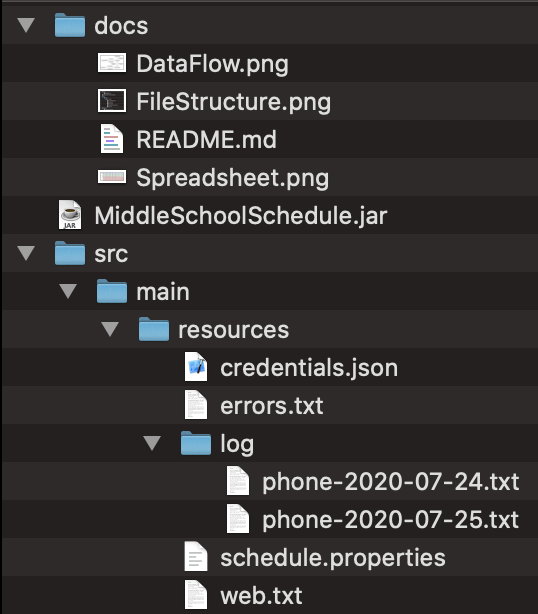
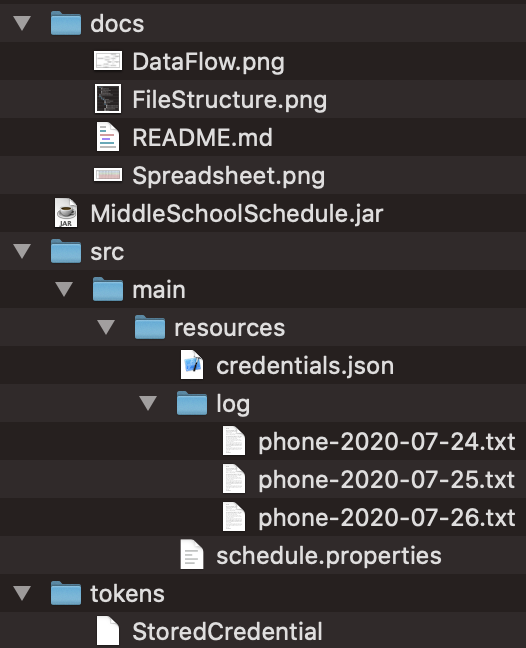
Add files via upload
Updated File Structure and README to remove GET requests and Web.txt. Also added list of commands.

Changed region(s): [[0.0, 0.0, 1.0, 1.0], [0.2738, 0.5879, 0.3042, 0.6498], [0.2738, 0.7117, 0.3042, 0.7427]]

diff --git a/README.md b/README.md
@@ -7,12 +7,26 @@ This program accepts texted commands and responds with information periodically 
 
 This project is intended for use by Suffield Middle School, but can be expanded on for other cases. This project requires you to supply your Twilio account with money for inbound and outbound messaging fees. The owner/admin of the spreadsheet has total control over the spreadsheet. Everyone else is restricted to the editing boxes highlighted in various colors. The admin can expand editing boxes, but must follow the instructions carefully.
     
-* A typical invocation of this program will be `java -jar /path/to/MiddleSchoolSchedule.jar -DproPath=app/example/path -Dlimit=50`. I recommend changing directory to the encompassing folder if possible, for minimal confusion regarding file paths.
+* A typical invocation of this program looks like `java -jar /path/to/MiddleSchoolSchedule.jar -DproPath=app/example/path -Dlimit=50`. Replace the example words with the real path as needed. The paths of the files and folders are automatically typed in if you drag the icon into the terminal. I also recommend changing directory to the encompassing folder if possible, especially if you plan on making changes to any file paths. This can be done with `cd "/path/to/folder"`. This will take care of the paths the first time, allowing you to call the program with only the JAR name.
+
+#### COMMANDS
+
+* Commands are split into 3 categories: School, Day, and Event Type. The order does not matter, nor does spacing or spelling, as long as the words exist. `23e@fRIdaY-04]GaMEs';^` can still pick out "friday" and "games." If multiple instances of the same category are found, the program will default to the first one in the list, not the first on in the command. `games lunch` will return the lunch menu because it is listed first.
+
+    * School: `SMS`. Defaults to `SMS` if no school is given.
+
+    * Day: `Monday`, `Tuesday`, `Wednesday`, `Thursday`, `Friday`, `Saturday`, `Sunday`, `Today`, `Tomorrow`. `Today` and `Tomorrow` assign the weekday based on when the command was received. Defaults to `Today` if no day is given.
+
+    * Event: `Lunch`, `Breakfast`, `Games`, `Practices`, `Clubs`, `Intramural`, `News`, `PTAC`. Special commands, which replace the event type, are `List` and `FullHelp`. They name every command and explain the structure, with the latter command being more comprehensive. The event must be given. Any command without a recognizable event type will instead tell the user to type "list" if they want a list of commands.
+
+
+
+* Events are also be separated by date. The program will also place a warning on any date that does not match the corresponding weekday. Depending on how the spreadsheet is scheduled, you may find multiple weeks worth of entries for a particular weekday.
 
 #### INSTALLATION
 
 ![](FileStructure.png)\
-Your end product should resemble this when complete. If you are tying this to your own Gmail, then you will provide `credentials.json`, and `StoredCredential` will be created when you first run the code. The `phone[date].txt` files will be created on the first message of each day.
+Your end product should resemble this when complete. All of the files, except the `phone[date].txt` files, can be downloaded from this repository. If you are not given the file hierarchy separately, then you will make it yourself. Name the folders as seen above. This is all contained in a larger folder, whose name does not matter. The given credentials are for `smsstuco@gmail.com`, which give this program the same permissions as the account itself. If you are tying this to your own Gmail, then you will provide `credentials.json`, and `StoredCredential` will be created when you first run the code. The `phone[date].txt` files will be created when the program receives the first message of that day.
 
 1. Properties
 
@@ -24,7 +38,7 @@ Your end product should resemble this when complete. If you are tying this to yo
 
     2. Create a password and enter it into the `password` line of `schedule.properties`. This will be used later for another layer of security. Beware of special HTTP formatting.
 
-    3. Create a Google Spreadsheet. You must copy it from the template [here](https://docs.google.com/spreadsheets/d/1QO8fHedJbx6vxmhYS0U85K8SFER1Gwg3t27rhXrGweQ/edit?usp=sharing). Make sure that whomever does this uses the correct Google account. Only the admin can change the cell arrangement. All others will be restricted to the editing boxes (more on those later). In the URL, you will find a long string of random characters, separated by slashes. Copy and paste it into the `GoogleID` line of `schedule.properties`. For reference, the template's ID is `1QO8fHedJbx6vxmhYS0U85K8SFER1Gwg3t27rhXrGweQ`. Be sure to disable the sharing link if you want to invite personnel individually.
+    3. Create a Google Spreadsheet. You must copy it from the template here: (https://docs.google.com/spreadsheets/d/1QO8fHedJbx6vxmhYS0U85K8SFER1Gwg3t27rhXrGweQ/edit?usp=sharing). Make sure that whomever does this uses the correct Google account. Only the admin can change the cell arrangement. All others will be restricted to the editing boxes (more on those later). In the URL, you will find a long string of random characters, separated by slashes. Copy and paste it into the `GoogleID` line of `schedule.properties`. For reference, the template's ID is `1QO8fHedJbx6vxmhYS0U85K8SFER1Gwg3t27rhXrGweQ`. Be sure to disable the sharing link if you want to invite personnel individually.
 
         * If the link does not work, then you will have to recreate this on your own. Find detailed instructions for this below.
 
@@ -32,7 +46,7 @@ Your end product should resemble this when complete. If you are tying this to yo
 
     5. `limit` specifies the number of times any one user may send a command to the program in a given interval of time. After reaching the limit, the user will be warned and given links to the website for the complete schedule. All future requests will not be responded to until the interval has passed. This is to protect against large Twilio bills from potential message bots. 
 
-    6. `limitInterval` is the length of time before resetting the command count of each user. It is counted in milliseconds: 60000 for 1 minute. Do not use any kind of arithmetic signs. It is read as a string, so `10 * 60000` will result in an error. Consider a reasonable limit with a long interval. If someone sends 10 commands, they probably will not have more questions for most of that day. If the user actually wanted the entire week's schedule, it would be easier for them to go to the website anyway. 15 commands in 6 hours is what I would recommend, but you decide. The program also adjusts the timing to align the interval with the clock. 15 min interval results in 1:00 -> 1:15 -> 1:30.
+    6. `limitInterval` is the length of time before resetting the command count of each user. It is counted in milliseconds: 60000 for 1 minute. Do not use any kind of arithmetic signs. It is read as a string, so `10 * 60000` will result in an error. Consider a reasonable limit with a long interval. If someone sends 10 commands, they probably will not have more questions for most of that day. If the user actually wanted the entire week's schedule, it would be easier for them to go to the website anyway. 15 commands in 6 hours is what I would recommend, but you decide. The program also adjusts the timing to align the interval with the clock. 15 min interval results in 1:00 -> 1:15 -> 1:30. The program currently prints the time to the console every interval, but this can be changed easily.
 
     7. `limitMessage` is the human representation of `limitInterval`, which will be given to the user upon reaching `limit`. 600000 milliseconds = 10 minutes.
 
@@ -55,6 +69,8 @@ Your end product should resemble this when complete. If you are tying this to yo
 3. GOOGLE SHEETS
 
     * This only applies if you are making your own credentials and tying them to your own Gmail account.
+
+    * The account should be a spare account without access to sensitive information in Google Drive. The program is not capable of doing anything other than reading from the spreadsheet it is given, but it is still granted the access to anything in the account's Google Drive. This account should be granted viewing privileges to the spreadsheet and nothing else. **I insist that you do not tie this to the spreadsheet owner account.**
 
     1. Sign in to the desired Gmail account. Go to the Java Quickstart of the Google Sheets API [here](https://developers.google.com/sheets/api/quickstart/java) and click the blue icon with "Enable the Google Sheets API."
     
@@ -80,7 +96,13 @@ Your end product should resemble this when complete. If you are tying this to yo
 
     * All HTTP POST requests are recorded in the `phone[date].txt` files. The timestamp is in ISO 8601 format. The entry is formatted like this: `+18609665991	2020-06-26T11:18:32EDT	Thursday games`. The files are separated by day, and a new file is made on the first message of each day.
 
-    * All HTTP GET requests are recorded in `web.txt`, formatted the same way.
+    * All Google related connection errors are printed to console. I can configure the program to write them to a text file instead, if you desire more permanent logging. Connection errors related to Twilio are not detectable, since the program will never know that the POST request was called in the first place. Twilio's website itself will keep track of errors on their end.
+
+        * Unable to Connect: generated by an UnknownHostException. Generally means that the connection could not be formed.
+
+        * Connection Lost: generated by a ConnectionException. Generally means that the connection existed but was broken midway.
+
+        * All other exceptions will be first identified as an IOException or a GeneralSecurityException, with the former being more common. It will then be followed by a description of the specific exception.
 
 2. TWILIO
 
@@ -124,7 +146,7 @@ Your end product should resemble this when complete. If you are tying this to yo
 
 * Follow these steps **to the letter** in order to recreate the spreadsheet. You can continue with the regular installation steps once the blank sheet is made and you have the spreadsheet ID, but you will have to complete this before first running the code.
 
-* Currently, the event types are `Lunch`, `Breakfast`, `Games`, `Practices`, `Clubs`, `Intramural`, `News`, `PTAC`.
+* Again, the event types are `Lunch`, `Breakfast`, `Games`, `Practices`, `Clubs`, `Intramural`, `News`, `PTAC`.
 
 1. Type "Event Types" in cell `A1`. Type "Lunch," or whichever event type goes first, in cell `A2`; the order does not matter. Label cells `B1` and `B2` as "Description" and "Date" respectively. Label columns `C-I` at the top as Monday-Sunday. This format will be continued with each event type, as seen above.
 
